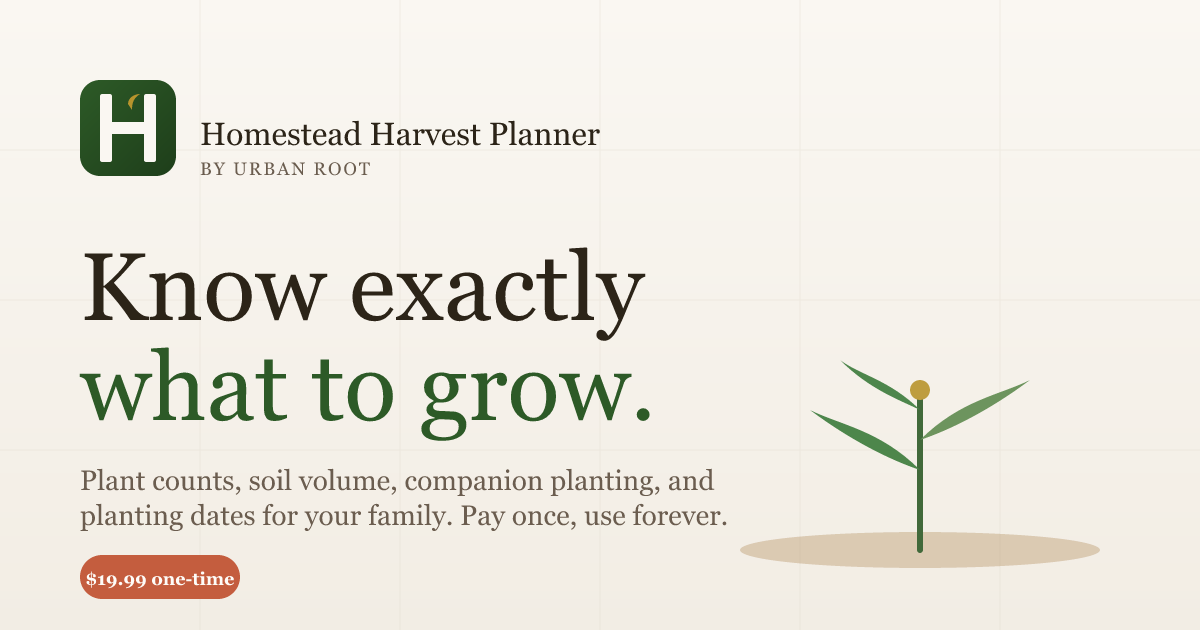
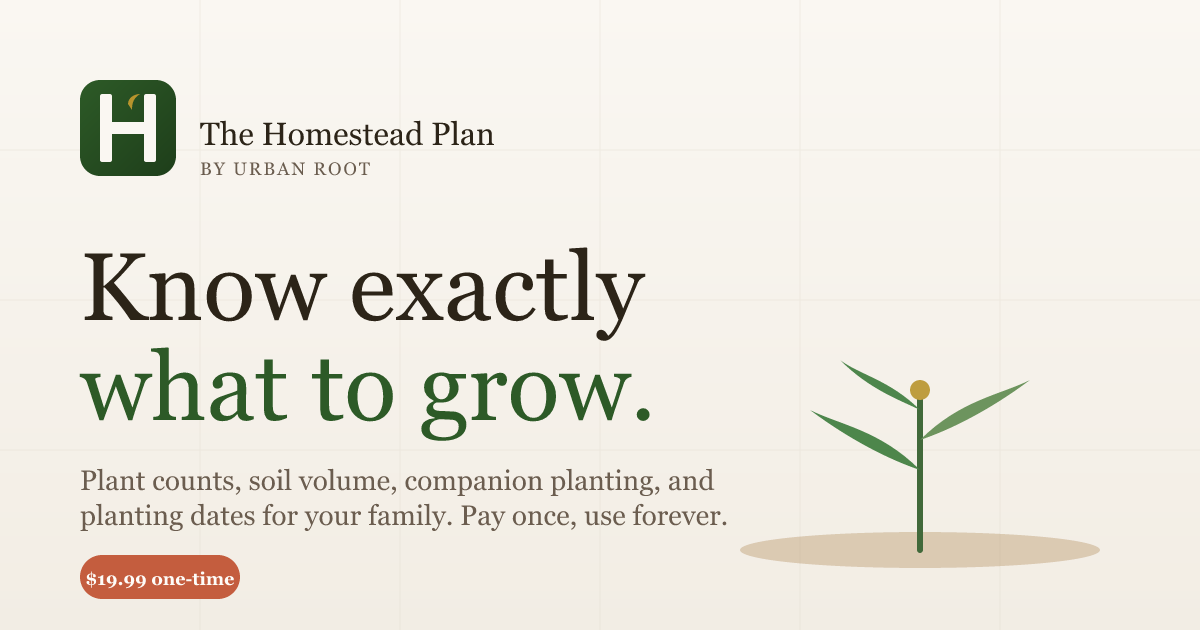
Rename brand "Homestead Harvest Planner" → "The Homestead Plan"
Aligns the product name with the live domain (thehomesteadplan.com).
Shorter, punchier, and customers now see the same words in the URL
and the masthead.

Swept across 12 files:
- index.html: title, description, og:*, twitter:*, og:site_name, JSON-LD
- src/App.jsx: header masthead, generated-report <title> + <h1>,
  download filename (Homestead-Harvest-Plan-*.html → The-Homestead-Plan-*.html)
- src/data/*.js comment headers
- public/contact.html, privacy.html, refund.html, terms.html
- public/og-image.svg (rendered text) + regenerated og-image.png
- api/generate.js, api/validate-key.js comment headers
- README.md

Masthead bump (per user request "slightly bigger"):
- BrandMark 36/48 → 42/56 px
- Title 20/28 → 22/34 px, tighter letterspacing
- Because "The Homestead Plan" is shorter than the old name, the full
  title now fits on mobile. No more truncation to "Homestead".

LocalStorage keys (hhp_*) kept as-is — changing them would wipe user
state for everyone who used the old build. Internal identifier only;
not surfaced in UI.

Build: 387.68 kB / 109.34 kB gz. Under budget.

Changed region(s): [[0.1542, 0.181, 0.4933, 0.2413]]

diff --git a/src/App.jsx b/src/App.jsx
@@ -4,7 +4,7 @@ import { COMPANIONS, COMPANION_GROUPINGS, getCompanion } from "./data/companions
 // COMPANIONS kept in the import surface for the future Crop Database tab.
 
 // ═══════════════════════════════════════════════════════════════════════════
-// ── Theme (T) - Homestead Harvest Planner: Forest & Terracotta ──
+// ── Theme (T) - The Homestead Plan: Forest & Terracotta ──
 // ═══════════════════════════════════════════════════════════════════════════
 const T = {
   bg: "#FAF7F2",
@@ -771,7 +771,7 @@ function BrandMark({ size = 32 }) {
       flexShrink: 0,
     }}>
       <svg viewBox="0 0 32 32" width={size * 0.62} height={size * 0.62}
-        role="img" aria-label="Homestead Harvest Planner logo">
+        role="img" aria-label="The Homestead Plan logo">
         {/* Stylised "H" - two verticals and a crossbar, evoking raised beds */}
         <rect x="7"  y="5"  width="3.5" height="22" rx="1" fill={T.bg} />
         <rect x="21.5" y="5" width="3.5" height="22" rx="1" fill={T.bg} />
@@ -2942,7 +2942,7 @@ function HowItWorksSection() {
 function ComparisonSection() {
   const isMobile = useMediaQuery("(max-width: 640px)");
   const rows = [
-    { tool: "Homestead Harvest Planner", cost: "$19.99 once", fiveYears: "$19.99", afterStop: "Keep everything", ours: true },
+    { tool: "The Homestead Plan", cost: "$19.99 once", fiveYears: "$19.99", afterStop: "Keep everything", ours: true },
     { tool: "GrowVeg", cost: "$29 / year", fiveYears: "$145", afterStop: "Plans locked" },
     { tool: "Old Farmer's Almanac Planner", cost: "$29 / year", fiveYears: "$145", afterStop: "Plans locked" },
     { tool: "Seedtime (paid tier)", cost: "from ~$10 / month", fiveYears: "~$420+", afterStop: "Plans locked" },
@@ -3898,7 +3898,7 @@ function GrowingPlanTab({
     const a = downloadAnchorRef.current;
     if (!a) return;
     a.href = url;
-    a.download = `Homestead-Harvest-Plan-${new Date().toISOString().slice(0, 10)}.html`;
+    a.download = `The-Homestead-Plan-${new Date().toISOString().slice(0, 10)}.html`;
     a.click();
   };
 
@@ -4588,7 +4588,7 @@ function buildPlanReportHtml({ plan, inputs, familySize, zoneStr,
 <head>
 <meta charset="utf-8">
 <meta name="viewport" content="width=device-width, initial-scale=1">
-<title>Homestead Harvest Plan - ${escapeHtml(dateStr)}</title>
+<title>The Homestead Plan - ${escapeHtml(dateStr)}</title>
 <link rel="preconnect" href="https://fonts.googleapis.com">
 <link rel="preconnect" href="https://fonts.gstatic.com" crossorigin>
 <link href="https://fonts.googleapis.com/css2?family=DM+Serif+Display&family=Plus+Jakarta+Sans:wght@400;600;700&family=Barlow:wght@400;600;700&display=swap" rel="stylesheet">
@@ -4598,7 +4598,7 @@ function buildPlanReportHtml({ plan, inputs, familySize, zoneStr,
   <div class="wrap">
     <div style="display:flex;justify-content:space-between;align-items:flex-start;gap:16px;flex-wrap:wrap;">
       <div>
-        <h1>Your Homestead Harvest Plan</h1>
+        <h1>Your Personalised Growing Plan</h1>
         <div class="muted">by Urban Root &middot; generated ${escapeHtml(dateStr)}</div>
       </div>
       <button class="print-btn" type="button" onclick="window.print()">Save as PDF</button>
@@ -4635,7 +4635,7 @@ function buildPlanReportHtml({ plan, inputs, familySize, zoneStr,
 
     <footer>
       <p style="margin:0 0 6px;"><strong>Disclaimer.</strong> This plan was generated automatically from your inputs. Generated plans are advisory, not authoritative; cross-check with local extension-service guidance before acting on anything irreversible.</p>
-      <p style="margin:0;">Homestead Harvest Planner by Urban Root &middot; thehomesteadplan.com</p>
+      <p style="margin:0;">The Homestead Plan by Urban Root &middot; thehomesteadplan.com</p>
     </footer>
   </div>
 </body>
@@ -5985,14 +5985,14 @@ function AppHeader({ metric, setMetric, currency, setCurrency, hemisphere, setHe
             a premium print journal instead of a calculator widget. */}
         <a href="#home"
           onClick={(e) => { e.preventDefault(); window.location.hash = "home"; }}
-          style={{ display: "flex", alignItems: "center", gap: isMobile ? 10 : 14, textDecoration: "none" }}>
-          <BrandMark size={isMobile ? 36 : 48} />
+          style={{ display: "flex", alignItems: "center", gap: isMobile ? 12 : 16, textDecoration: "none" }}>
+          <BrandMark size={isMobile ? 42 : 56} />
           <span style={{
-            fontFamily: T.fontDisplay, fontSize: isMobile ? 20 : 28,
-            color: T.tx, fontWeight: 400, letterSpacing: "-0.01em",
+            fontFamily: T.fontDisplay, fontSize: isMobile ? 22 : 34,
+            color: T.tx, fontWeight: 400, letterSpacing: "-0.015em",
             lineHeight: 1.05,
           }}>
-            {isMobile ? "Homestead" : "Homestead Harvest Planner"}
+            {isMobile ? "The Homestead Plan" : "The Homestead Plan"}
           </span>
         </a>
 
@@ -6330,7 +6330,7 @@ function AppFooter() {
               <BrandMark size={32} />
               <span style={{
                 fontFamily: T.fontDisplay, fontSize: 17, color: T.tx, fontWeight: 400,
-              }}>Homestead Harvest Planner</span>
+              }}>The Homestead Plan</span>
             </div>
             <p style={{
               margin: "12px 0 0", fontSize: 13, color: T.tx3, lineHeight: 1.55,

diff --git a/index.html b/index.html
@@ -13,29 +13,29 @@
   <link href="https://fonts.googleapis.com/css2?family=Barlow:wght@500;600;700&family=DM+Serif+Display&family=Plus+Jakarta+Sans:wght@400;500;600;700&display=swap" rel="stylesheet" />
   <!-- LemonSqueezy checkout overlay SDK. Exposes window.createLemonSqueezy + window.LemonSqueezy. -->
   <script src="https://assets.lemonsqueezy.com/lemon.js" defer></script>
-  <title>Homestead Harvest Planner: Know Exactly What to Grow</title>
+  <title>The Homestead Plan: Know Exactly What to Grow</title>
   <meta name="description" content="Free garden calculator for homesteaders. Find plant counts, soil volume, companion planting, and planting dates for your family. Pay once, use forever." />
   <link rel="canonical" href="https://thehomesteadplan.com/" />
-  <meta property="og:title" content="Homestead Harvest Planner: Know Exactly What to Grow" />
+  <meta property="og:title" content="The Homestead Plan: Know Exactly What to Grow" />
   <meta property="og:description" content="Plan your homestead garden based on what your family actually eats. Free calculators for self-sufficiency, soil, companions, and planting dates." />
   <meta property="og:type" content="website" />
-  <meta property="og:site_name" content="Homestead Harvest Planner by Urban Root" />
+  <meta property="og:site_name" content="The Homestead Plan by Urban Root" />
   <meta property="og:url" content="https://thehomesteadplan.com/" />
   <meta property="og:image" content="https://thehomesteadplan.com/og-image.png" />
   <meta property="og:image:width" content="1200" />
   <meta property="og:image:height" content="630" />
-  <meta property="og:image:alt" content="Homestead Harvest Planner by Urban Root - pay once, use forever" />
+  <meta property="og:image:alt" content="The Homestead Plan by Urban Root - pay once, use forever" />
   <meta name="twitter:card" content="summary_large_image" />
   <meta name="twitter:url" content="https://thehomesteadplan.com/" />
-  <meta name="twitter:title" content="Homestead Harvest Planner by Urban Root" />
+  <meta name="twitter:title" content="The Homestead Plan by Urban Root" />
   <meta name="twitter:description" content="Free garden calculators for homesteaders. Pay once, use forever." />
   <meta name="twitter:image" content="https://thehomesteadplan.com/og-image.png" />
-  <meta name="twitter:image:alt" content="Homestead Harvest Planner by Urban Root - pay once, use forever" />
+  <meta name="twitter:image:alt" content="The Homestead Plan by Urban Root - pay once, use forever" />
   <script type="application/ld+json">
   {
     "@context": "https://schema.org",
     "@type": "WebApplication",
-    "name": "Homestead Harvest Planner",
+    "name": "The Homestead Plan",
     "description": "Free garden calculator for homesteaders: self-sufficiency planning, raised-bed soil volume, companion planting, and planting dates. Paid tier adds an AI growing plan, crop database, cost savings, and a preservation planner.",
     "url": "https://thehomesteadplan.com/",
     "applicationCategory": "UtilityApplication",
@@ -131,7 +131,7 @@
   <script type="module" src="/src/main.jsx"></script>
   <noscript>
     <div style="max-width:640px;margin:0 auto;padding:40px 20px;font-family:system-ui,sans-serif;color:#2C2418">
-      <h1>Homestead Harvest Planner by Urban Root</h1>
+      <h1>The Homestead Plan by Urban Root</h1>
       <p>A free, all-in-one garden planning toolkit for homesteaders. Calculate exactly how many plants your family needs, how much soil your raised beds require, which crops grow well together, and when to plant everything for your climate.</p>
       <h2>Free Calculators</h2>
       <ul>

diff --git a/public/terms.html b/public/terms.html
@@ -3,8 +3,8 @@
 <head>
   <meta charset="UTF-8" />
   <meta name="viewport" content="width=device-width, initial-scale=1.0" />
-  <title>Terms of Service - Homestead Harvest Planner</title>
-  <meta name="description" content="Terms of service for the Homestead Harvest Planner by Urban Root." />
+  <title>Terms of Service - The Homestead Plan</title>
+  <meta name="description" content="Terms of service for the The Homestead Plan by Urban Root." />
   <meta name="theme-color" content="#2D5A27" />
   <link rel="icon" type="image/svg+xml" href="/favicon.svg" />
   <link rel="apple-touch-icon" href="/apple-touch-icon.png" />
@@ -86,13 +86,13 @@
   <header>
     <div class="inner">
       <span class="mark" aria-hidden="true">
-        <svg viewBox="0 0 32 32" fill="#FAF7F2" role="img" aria-label="Homestead Harvest Planner">
+        <svg viewBox="0 0 32 32" fill="#FAF7F2" role="img" aria-label="The Homestead Plan">
           <rect x="7" y="5" width="3.5" height="22" rx="1"/>
           <rect x="21.5" y="5" width="3.5" height="22" rx="1"/>
           <rect x="7" y="14.5" width="18" height="3" rx="1"/>
         </svg>
       </span>
-      <a class="brand" href="/">Homestead Harvest Planner</a>
+      <a class="brand" href="/">The Homestead Plan</a>
     </div>
   </header>
 
@@ -101,10 +101,10 @@
     <h1>Terms of Service</h1>
     <p class="effective">Effective 17 April 2026. Last updated 17 April 2026.</p>
 
-    <p>These terms govern your use of the Homestead Harvest Planner (the "Service"), a web-based garden planning tool operated by Urban Root. By using the Service you agree to these terms. If you don't, please don't use the Service.</p>
+    <p>These terms govern your use of the The Homestead Plan (the "Service"), a web-based garden planning tool operated by Urban Root. By using the Service you agree to these terms. If you don't, please don't use the Service.</p>
 
     <h2>1. What the Service is</h2>
-    <p>The Homestead Harvest Planner is a browser-based calculator and planning tool for home gardeners. It includes free calculators (self-sufficiency, raised-bed soil, companion planting, planting dates) and, after a one-time purchase, a paid tier that adds a personalised growing plan, a searchable crop database, a cost-savings calculator, and a preservation planner.</p>
+    <p>The The Homestead Plan is a browser-based calculator and planning tool for home gardeners. It includes free calculators (self-sufficiency, raised-bed soil, companion planting, planting dates) and, after a one-time purchase, a paid tier that adds a personalised growing plan, a searchable crop database, a cost-savings calculator, and a preservation planner.</p>
     <p>The Service runs in your browser. Your plans are stored in your browser's local storage on your device unless you choose to export them.</p>
 
     <h2>2. Licence</h2>

diff --git a/public/privacy.html b/public/privacy.html
@@ -3,8 +3,8 @@
 <head>
   <meta charset="UTF-8" />
   <meta name="viewport" content="width=device-width, initial-scale=1.0" />
-  <title>Privacy Policy - Homestead Harvest Planner</title>
-  <meta name="description" content="Privacy policy for the Homestead Harvest Planner by Urban Root." />
+  <title>Privacy Policy - The Homestead Plan</title>
+  <meta name="description" content="Privacy policy for the The Homestead Plan by Urban Root." />
   <meta name="theme-color" content="#2D5A27" />
   <link rel="icon" type="image/svg+xml" href="/favicon.svg" />
   <link rel="apple-touch-icon" href="/apple-touch-icon.png" />
@@ -96,13 +96,13 @@
   <header>
     <div class="inner">
       <span class="mark" aria-hidden="true">
-        <svg viewBox="0 0 32 32" fill="#FAF7F2" role="img" aria-label="Homestead Harvest Planner">
+        <svg viewBox="0 0 32 32" fill="#FAF7F2" role="img" aria-label="The Homestead Plan">
           <rect x="7" y="5" width="3.5" height="22" rx="1"/>
           <rect x="21.5" y="5" width="3.5" height="22" rx="1"/>
           <rect x="7" y="14.5" width="18" height="3" rx="1"/>
         </svg>
       </span>
-      <a class="brand" href="/">Homestead Harvest Planner</a>
+      <a class="brand" href="/">The Homestead Plan</a>
     </div>
   </header>
 
@@ -111,7 +111,7 @@
     <h1>Privacy Policy</h1>
     <p class="effective">Effective 17 April 2026. Last updated 17 April 2026.</p>
 
-    <p>The Homestead Harvest Planner is designed to work without collecting more than the bare minimum we need to sell you a licence and validate it. Here's exactly what happens, in plain language.</p>
+    <p>The The Homestead Plan is designed to work without collecting more than the bare minimum we need to sell you a licence and validate it. Here's exactly what happens, in plain language.</p>
 
     <h2>What stays on your device</h2>
     <p>Everything you type into the calculators - family size, crop selections, bed dimensions, frost dates, mix recipes, garden plans - lives in your browser's local storage on your device. We do not send any of that to our servers. You can clear it from your browser at any time via your browser's site settings.</p>

diff --git a/public/contact.html b/public/contact.html
@@ -3,8 +3,8 @@
 <head>
   <meta charset="UTF-8" />
   <meta name="viewport" content="width=device-width, initial-scale=1.0" />
-  <title>Contact - Homestead Harvest Planner</title>
-  <meta name="description" content="Get in touch with Urban Root about the Homestead Harvest Planner - support, refunds, feedback." />
+  <title>Contact - The Homestead Plan</title>
+  <meta name="description" content="Get in touch with Urban Root about the The Homestead Plan - support, refunds, feedback." />
   <meta name="theme-color" content="#2D5A27" />
   <link rel="icon" type="image/svg+xml" href="/favicon.svg" />
   <link rel="apple-touch-icon" href="/apple-touch-icon.png" />
@@ -149,13 +149,13 @@
   <header>
     <div class="inner">
       <span class="mark" aria-hidden="true">
-        <svg viewBox="0 0 32 32" fill="#FAF7F2" role="img" aria-label="Homestead Harvest Planner">
+        <svg viewBox="0 0 32 32" fill="#FAF7F2" role="img" aria-label="The Homestead Plan">
           <rect x="7" y="5" width="3.5" height="22" rx="1"/>
           <rect x="21.5" y="5" width="3.5" height="22" rx="1"/>
           <rect x="7" y="14.5" width="18" height="3" rx="1"/>
         </svg>
       </span>
-      <a class="brand" href="/">Homestead Harvest Planner</a>
+      <a class="brand" href="/">The Homestead Plan</a>
     </div>
   </header>
 

diff --git a/public/refund.html b/public/refund.html
@@ -3,8 +3,8 @@
 <head>
   <meta charset="UTF-8" />
   <meta name="viewport" content="width=device-width, initial-scale=1.0" />
-  <title>Refund Policy - Homestead Harvest Planner</title>
-  <meta name="description" content="Refund policy for the Homestead Harvest Planner by Urban Root." />
+  <title>Refund Policy - The Homestead Plan</title>
+  <meta name="description" content="Refund policy for the The Homestead Plan by Urban Root." />
   <meta name="theme-color" content="#2D5A27" />
   <link rel="icon" type="image/svg+xml" href="/favicon.svg" />
   <link rel="apple-touch-icon" href="/apple-touch-icon.png" />
@@ -92,13 +92,13 @@
   <header>
     <div class="inner">
       <span class="mark" aria-hidden="true">
-        <svg viewBox="0 0 32 32" fill="#FAF7F2" role="img" aria-label="Homestead Harvest Planner">
+        <svg viewBox="0 0 32 32" fill="#FAF7F2" role="img" aria-label="The Homestead Plan">
           <rect x="7" y="5" width="3.5" height="22" rx="1"/>
           <rect x="21.5" y="5" width="3.5" height="22" rx="1"/>
           <rect x="7" y="14.5" width="18" height="3" rx="1"/>
         </svg>
       </span>
-      <a class="brand" href="/">Homestead Harvest Planner</a>
+      <a class="brand" href="/">The Homestead Plan</a>
     </div>
   </header>
 

diff --git a/src/data/companions.js b/src/data/companions.js
@@ -1,5 +1,5 @@
 // ═══════════════════════════════════════════════════════════════════════════
-// Homestead Harvest Planner - Companion Planting database
+// The Homestead Plan - Companion Planting database
 // ═══════════════════════════════════════════════════════════════════════════
 // Pairwise relationships documented by university extensions (WVU, UMN,
 // Cornell, NC State, UC IPM, Maryland, Utah State), Louise Riotte's

diff --git a/src/data/crops.js b/src/data/crops.js
@@ -1,5 +1,5 @@
 // ═══════════════════════════════════════════════════════════════════════════
-// Homestead Harvest Planner - Crop database
+// The Homestead Plan - Crop database
 // ═══════════════════════════════════════════════════════════════════════════
 // Single source of truth for every crop the planner knows about. Split out of
 // App.jsx so the database can scale past ~100 entries without making the UI

diff --git a/README.md b/README.md
@@ -1,4 +1,4 @@
-# Homestead Harvest Planner
+# The Homestead Plan
 
 Urban Root's flagship soil-growing calculator and planning tool for homesteaders.
 
